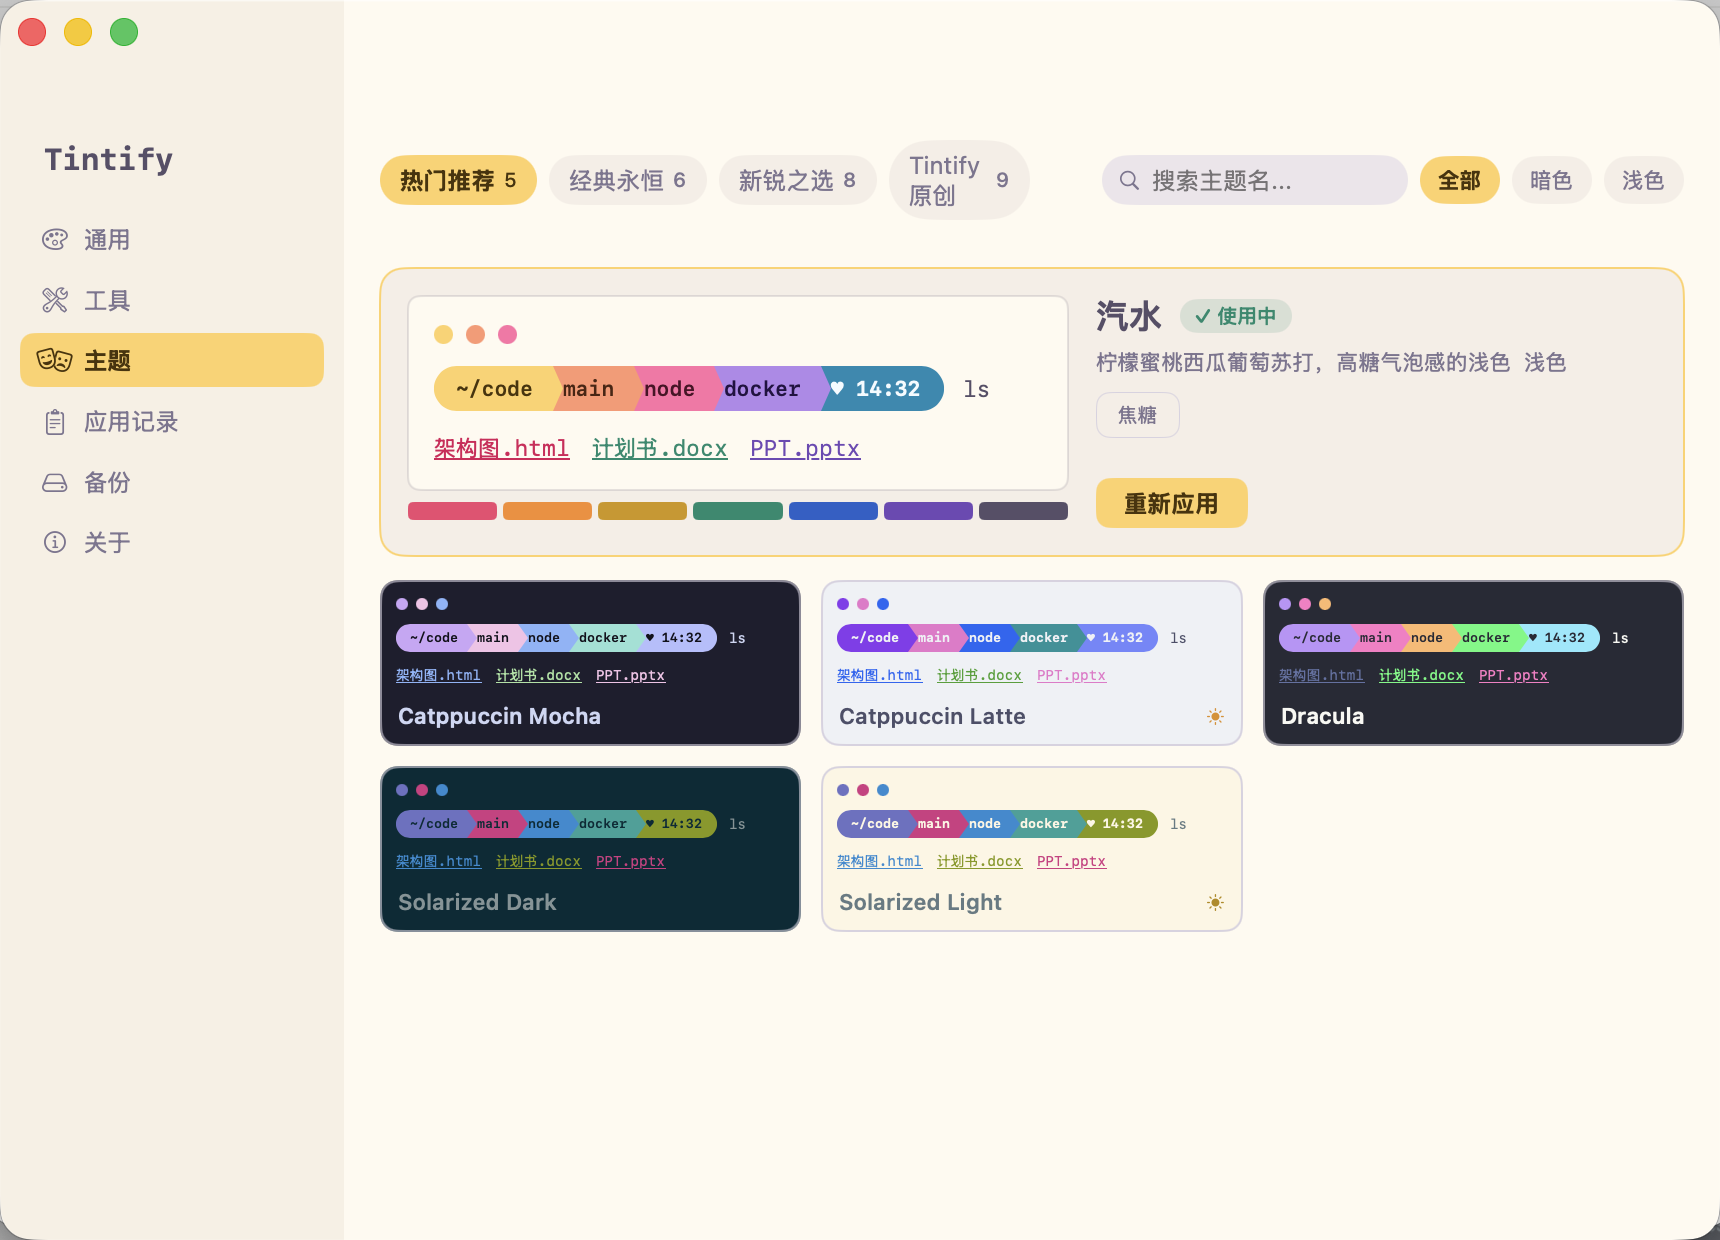
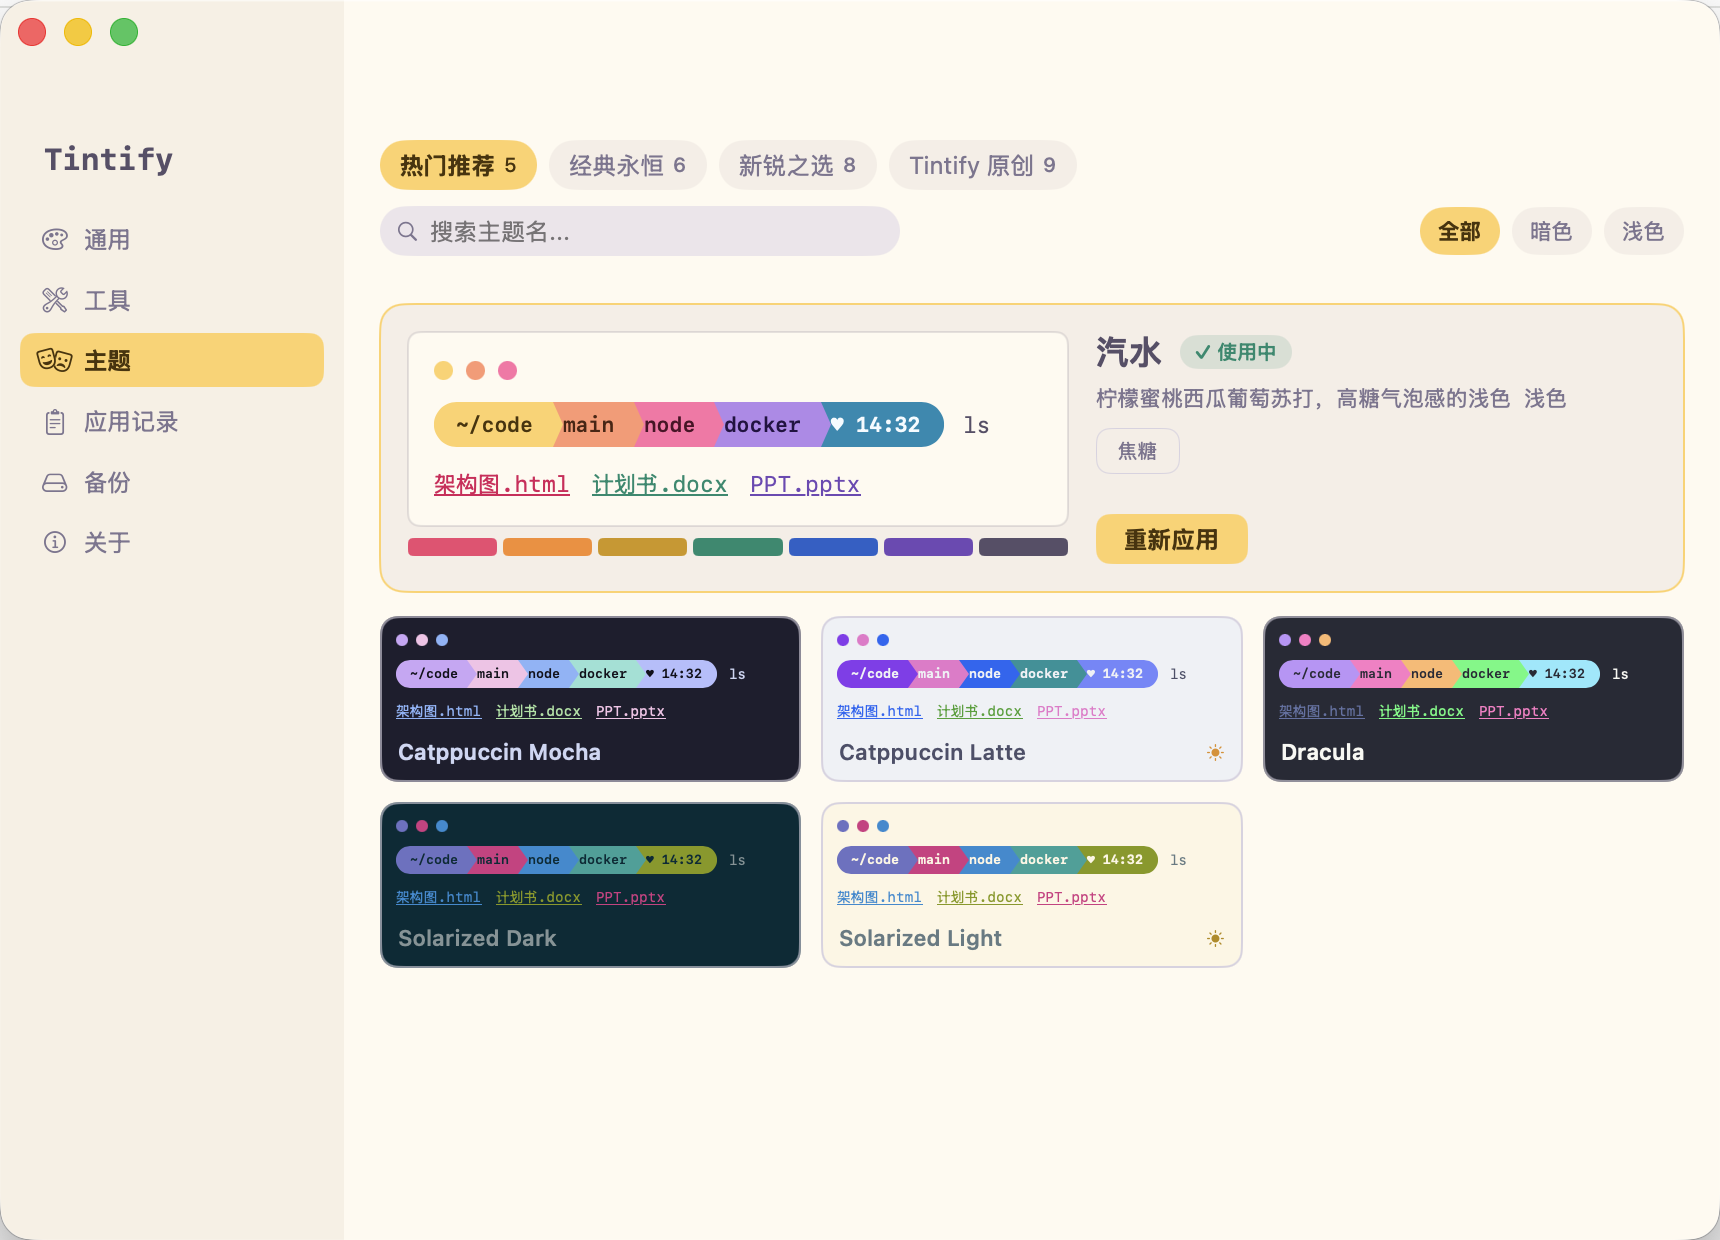
fix: 主题页过滤栏拆两行——「Tintify 原创」chip 不再被挤到折行
一行装不下 4 分类 + 搜索 + 3 深浅过滤（最小窗宽 760 时溢出），
最长的 chip 文字被 SwiftUI 折行导致高矮不齐。分类一行、搜索+过滤一行，
chip 文字加 lineLimit(1)+fixedSize 保险。README 截图同步更新。

diff --git a/Sources/Settings/ThemesPane.swift b/Sources/Settings/ThemesPane.swift
@@ -75,51 +75,60 @@ struct ThemesPane: View {
 
     @ViewBuilder
     private func filterBar(skin: ThemeSkin) -> some View {
-        HStack(spacing: 6) {
-            ForEach(ThemeCategory.allCases, id: \.self) { category in
-                let count = registry.themes(for: category).count
-                let isSelected = selectedCategory == category
-                Button {
-                    withAnimation(.easeInOut(duration: 0.15)) {
-                        selectedCategory = category
+        // 拆两行：一行装不下「4 分类 + 搜索 + 3 深浅」，最小窗宽下最长的
+        // 「Tintify 原创」会被挤到折行，chip 高矮不齐
+        VStack(spacing: 8) {
+            HStack(spacing: 6) {
+                ForEach(ThemeCategory.allCases, id: \.self) { category in
+                    let count = registry.themes(for: category).count
+                    let isSelected = selectedCategory == category
+                    Button {
+                        withAnimation(.easeInOut(duration: 0.15)) {
+                            selectedCategory = category
+                        }
+                    } label: {
+                        HStack(spacing: 4) {
+                            Text(category.displayName)
+                                .font(.system(size: 12, weight: isSelected ? .bold : .regular))
+                            Text("\(count)")
+                                .font(.system(size: 10, weight: .medium))
+                        }
+                        .lineLimit(1)
+                        .fixedSize()
+                        .foregroundStyle(isSelected ? skin.accentInkColor : skin.textSecondaryColor)
+                        .padding(.horizontal, 10)
+                        .padding(.vertical, 5)
+                        .background(isSelected ? skin.accentColor : skin.cardBgColor)
+                        .clipShape(Capsule())
+                        .contentShape(Rectangle())
                     }
-                } label: {
-                    HStack(spacing: 4) {
-                        Text(category.displayName)
-                            .font(.system(size: 12, weight: isSelected ? .bold : .regular))
-                        Text("\(count)")
-                            .font(.system(size: 10, weight: .medium))
-                    }
-                    .foregroundStyle(isSelected ? skin.accentInkColor : skin.textSecondaryColor)
-                    .padding(.horizontal, 10)
-                    .padding(.vertical, 5)
-                    .background(isSelected ? skin.accentColor : skin.cardBgColor)
-                    .clipShape(Capsule())
-                    .contentShape(Rectangle())
+                    .buttonStyle(.plain)
                 }
-                .buttonStyle(.plain)
+                Spacer()
             }
 
-            Spacer()
+            HStack(spacing: 6) {
+                HStack(spacing: 5) {
+                    Image(systemName: "magnifyingglass")
+                        .font(.system(size: 10))
+                        .foregroundStyle(skin.textSecondaryColor)
+                    TextField(L("搜索主题名..."), text: $searchText)
+                        .textFieldStyle(.plain)
+                        .font(.system(size: 12))
+                        .foregroundStyle(skin.textPrimaryColor)
+                }
+                .padding(.horizontal, 8)
+                .padding(.vertical, 5)
+                .frame(maxWidth: 260)
+                .background(skin.elevatedBgColor)
+                .clipShape(Capsule())
 
-            HStack(spacing: 5) {
-                Image(systemName: "magnifyingglass")
-                    .font(.system(size: 10))
-                    .foregroundStyle(skin.textSecondaryColor)
-                TextField(L("搜索主题名..."), text: $searchText)
-                    .textFieldStyle(.plain)
-                    .font(.system(size: 12))
-                    .foregroundStyle(skin.textPrimaryColor)
-                    .frame(width: 120)
+                Spacer()
+
+                appearanceChip(nil, label: L("全部"), skin: skin)
+                appearanceChip(.dark, label: L("暗色"), skin: skin)
+                appearanceChip(.light, label: L("浅色"), skin: skin)
             }
-            .padding(.horizontal, 8)
-            .padding(.vertical, 5)
-            .background(skin.elevatedBgColor)
-            .clipShape(Capsule())
-
-            appearanceChip(nil, label: L("全部"), skin: skin)
-            appearanceChip(.dark, label: L("暗色"), skin: skin)
-            appearanceChip(.light, label: L("浅色"), skin: skin)
         }
         .padding(.horizontal, 18)
         .padding(.top, 38)   // 透明标题栏让位